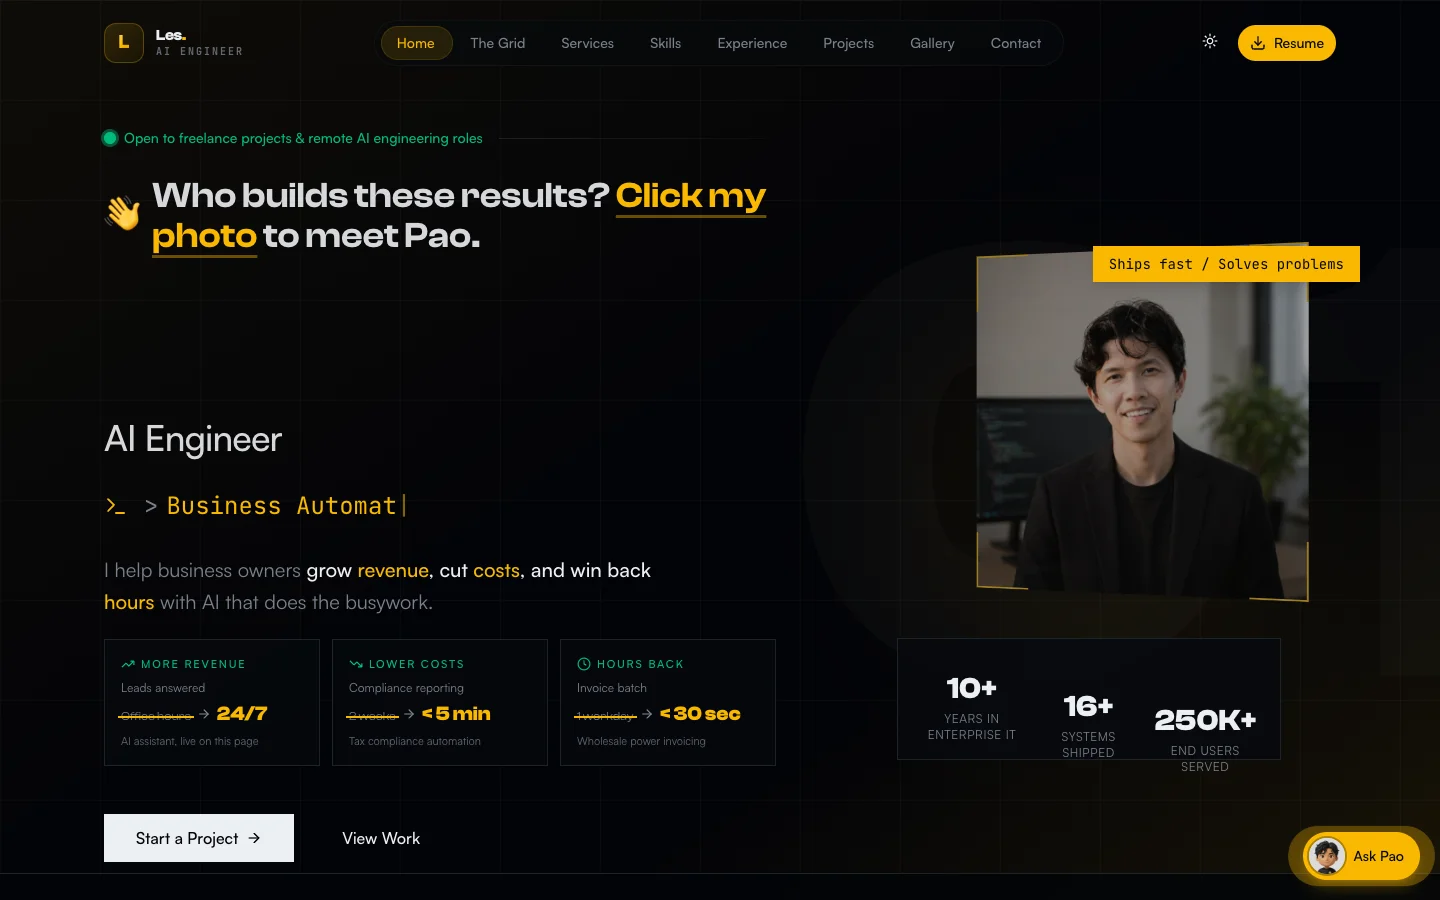
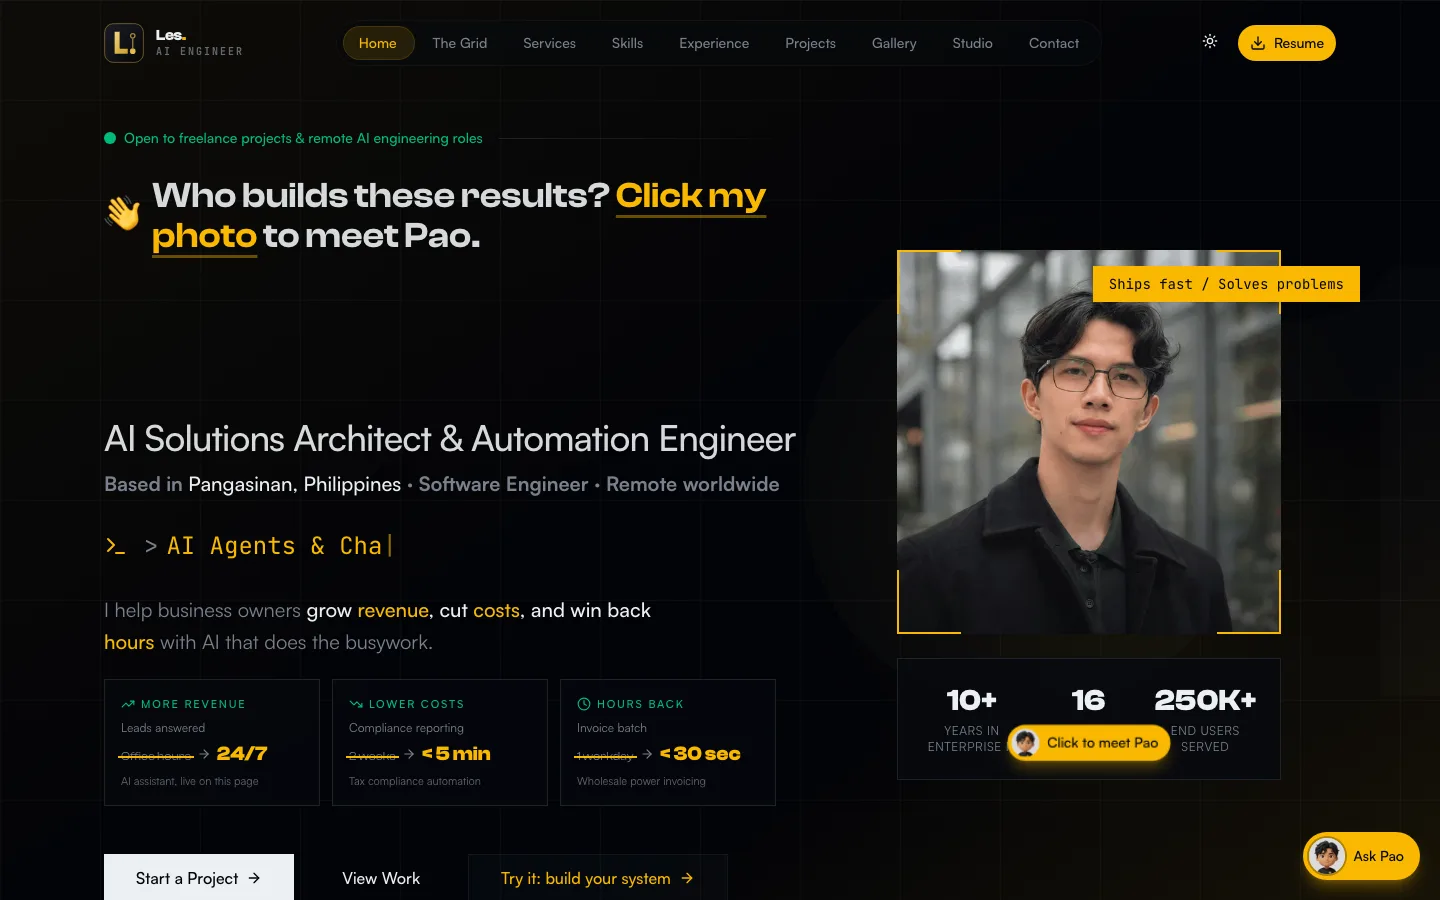
New portrait on site and README; fix broken README widgets and links
- Replace profile photo (renamed to les-john-paul-oliver.jpg so image caches refresh)
- README: drop dead stats widgets (503/402), swap unpublished e-invoicing card
  for event registration, correct case-study count to 21, refresh hero
  screenshot, add quick nav and How I work

diff --git a/src/app/layout.tsx b/src/app/layout.tsx
@@ -132,7 +132,7 @@ const jsonLd = {
       name: siteName,
       alternateName: ["Les Oliver", "LJP Oliver", "lesjohnpaul"],
       url: siteUrl,
-      image: `${siteUrl}/images/lesjohnpaul.jpg`,
+      image: `${siteUrl}/images/les-john-paul-oliver.jpg`,
       email: "mailto:lesjohnpauloliver@gmail.com",
       jobTitle: "AI Engineer",
       description: siteDescription,
@@ -222,7 +222,7 @@ const jsonLd = {
       "@id": `${siteUrl}/#service`,
       name: `${siteName}, AI Engineer in the Philippines`,
       url: siteUrl,
-      image: `${siteUrl}/images/lesjohnpaul.jpg`,
+      image: `${siteUrl}/images/les-john-paul-oliver.jpg`,
       description: siteDescription,
       email: "lesjohnpauloliver@gmail.com",
       areaServed: [{ "@type": "Country", name: "Philippines" }, "Worldwide"],

diff --git a/src/components/sections/hero-section.tsx b/src/components/sections/hero-section.tsx
@@ -359,7 +359,7 @@ export function HeroSection() {
                   {/* Image */}
                   <div className="relative w-full h-full">
                     <Image
-                      src="/images/lesjohnpaul.jpg"
+                      src="/images/les-john-paul-oliver.jpg"
                       alt="Les John Paul Oliver, AI Engineer"
                       fill
                       className="object-cover object-center transition-transform duration-700 ease-out group-hover/image:scale-105"

diff --git a/src/data/portfolio-data.ts b/src/data/portfolio-data.ts
@@ -805,7 +805,7 @@ export const photoGallery = [
     caption: "Live performance, Nord Stage 4 88",
   },
   {
-    src: "/images/lesjohnpaul.jpg",
+    src: "/images/les-john-paul-oliver.jpg",
     alt: "Les John Paul Oliver",
     category: "work",
     caption: "Portrait",

diff --git a/README.md b/README.md
@@ -2,7 +2,7 @@
 
 <img src="https://capsule-render.vercel.app/api?type=waving&color=0:0b0b0f,55:3a2a06,100:F5B700&height=260&section=header&text=Les%20John%20Paul%20Oliver&fontSize=52&fontColor=ffffff&animation=fadeIn&fontAlignY=38&desc=AI%20Solutions%20Architect%20%26%20Automation%20Engineer%20%E2%80%A2%20Urdaneta%2C%20Pangasinan%2C%20Philippines&descAlignY=60&descSize=19" alt="Les John Paul Oliver, AI Solutions Architect & Automation Engineer"/>
 
-[![Typing SVG](https://readme-typing-svg.demolab.com?font=Fira+Code&weight=600&size=22&duration=3200&pause=900&color=F5B700&center=true&vCenter=true&width=820&height=60&lines=AI+agents+that+answer+leads+24%2F7;2-week+compliance+work+%E2%86%92+under+5+minutes;A+full+workday+of+invoicing+%E2%86%92+under+30+seconds;I+don't+train+LLMs.+I+ship+them+into+real+businesses.)](https://lesjohnpauloliver.dev)
+[![Typing SVG](https://readme-typing-svg.demolab.com?font=Fira+Code&weight=600&size=22&duration=3200&pause=900&color=F5B700&center=true&vCenter=true&width=820&height=60&lines=AI+agents+that+answer+leads+24%2F7;2-week+compliance+work+%E2%86%92+under+5+minutes;A+full+workday+of+invoicing+%E2%86%92+under+30+seconds;I+don%27t+train+LLMs.+I+ship+them+into+real+businesses.)](https://lesjohnpauloliver.dev)
 
 <a href="https://lesjohnpauloliver.dev"><img src="https://img.shields.io/badge/Portfolio-lesjohnpauloliver.dev-F5B700?style=for-the-badge&labelColor=0b0b0f" alt="Portfolio"/></a>
 <a href="https://lesjohnpauloliver.dev/#contact"><img src="https://img.shields.io/badge/Book_a_call-Cal.com-F5B700?style=for-the-badge&logo=googlecalendar&logoColor=F5B700&labelColor=0b0b0f" alt="Book a call"/></a>
@@ -17,6 +17,16 @@
 <a href="https://lesjohnpauloliver.dev"><img src="docs/readme/hero.webp" width="92%" alt="lesjohnpauloliver.dev hero: buyer outcomes, 3D Pao assistant, and live stats"/></a>
 
 <sub>↑ Live site. Click my photo there and <b>Pao</b>, my 3D AI assistant, pops out. Ask it anything about my work, or book a call with it.</sub>
+
+<br/><br/>
+
+<a href="#-what-i-do">What I do</a> ·
+<a href="#-featured-work">Featured work</a> ·
+<a href="#-meet-pao-the-ai-assistant-on-my-site">Meet Pao</a> ·
+<a href="#-how-i-work">How I work</a> ·
+<a href="#%EF%B8%8F-stack-i-ship-with">Stack</a> ·
+<a href="#-by-the-numbers">Numbers</a> ·
+<a href="#%EF%B8%8F-about-this-repo">This repo</a>
 
 </div>
 
@@ -61,7 +71,6 @@ I'm **Les John Paul Oliver**, an **AI Solutions Architect & Automation Engineer*
 
 > **Team of one.** Every project below was scoped, designed, built, and shipped by me alone.
 
-
 <sub>Every card opens a full case study: the problem, the architecture, and what changed. Screens use demo data, and sensitive details are blurred.</sub>
 
 <table>
@@ -101,15 +110,15 @@ I'm **Les John Paul Oliver**, an **AI Solutions Architect & Automation Engineer*
 <sub><code>Next.js</code> <code>Supabase</code> <code>Cloudflare Tunnel</code></sub>
 </td>
 <td width="50%" valign="top">
-<a href="https://lesjohnpauloliver.dev/work/consumer-e-invoicing-notification-platform"><img src="public/images/projects/e-invoicing/01-executive.webp" alt="E-invoicing executive view"/></a>
-<b>Consumer E-Invoicing & Notifications</b> <img src="https://img.shields.io/badge/live-22c55e?style=flat-square" alt="live"/><br/>
-<sub>Password-protected PDF statements by email and SMS, with automatic provider fallback. 183K+ recipients.</sub><br/>
-<sub><code>Node.js</code> <code>Amazon SES</code> <code>SQL Server</code></sub>
+<a href="https://lesjohnpauloliver.dev/work/distributed-event-registration-platform"><img src="public/images/projects/agam/01-command-center.jpg" alt="Event registration command center"/></a>
+<b>Distributed Event Registration</b> <img src="https://img.shields.io/badge/live-22c55e?style=flat-square" alt="live"/><br/>
+<sub>QR check-in for a general assembly: 13,000 attendees across 5 simultaneous venues, with real-time membership validation and an audit trail accepted as official documentation.</sub><br/>
+<sub><code>Next.js</code> <code>Supabase Realtime</code> <code>SQL Server</code></sub>
 </td>
 </tr>
 </table>
 
-<div align="center"><a href="https://lesjohnpauloliver.dev/#projects"><b>See all 23 projects →</b></a></div>
+<div align="center"><a href="https://lesjohnpauloliver.dev/#projects"><b>See all 21 case studies →</b></a></div>
 
 <br/>
 
@@ -131,6 +140,16 @@ flowchart LR
 ```
 
 <sub><b>Guardrails:</b> answers only from verified portfolio facts · ignores pasted code and prompt injection · history kept server-side in Redis · 40 messages/hour and 100/day per IP · 20 turns per conversation · atomic daily spend cap.</sub>
+
+<br/>
+
+## 🧭 How I work
+
+| | Step | What happens |
+|:-:|---|---|
+| **01** | **Map the problem** | A 30-minute call to find the workflow that costs you the most time or money. |
+| **02** | **Prototype fast** | A working version early, so you see results before committing to the full build. |
+| **03** | **Ship & hand over** | Production deployment, documentation, and support options once it's live. |
 
 <br/>
 
@@ -163,7 +182,7 @@ flowchart LR
 </tr>
 <tr>
 <td align="center"><h3>1.17 TB</h3><sub>SQL Server data<br/>run as DBA</sub></td>
-<td align="center"><h3>183K+</h3><sub>e-invoice<br/>recipients</sub></td>
+<td align="center"><h3>21</h3><sub>case studies<br/>published</sub></td>
 <td align="center"><h3>300</h3><sub>staff on the ITSM<br/>platform, 12 offices</sub></td>
 <td align="center"><h3>10 yrs</h3><sub>in production,<br/>promoted 3×</sub></td>
 </tr>
@@ -181,7 +200,7 @@ This repo is my GitHub profile **and** the source of [lesjohnpauloliver.dev](htt
 | App | Next.js 16 (App Router, Turbopack), React 19, Tailwind 4 |
 | Motion | GSAP scroll reveals and CSS-only "AI ops" scenes that play only while on screen and respect reduced motion |
 | 3D Pao | Procedural Three.js model (8.7K triangles, ~11 KB gzip) on React Three Fiber, loaded only when you meet it |
-| Case studies | 23 statically generated `/work/[slug]` pages with CreativeWork JSON-LD and a sitemap |
+| Case studies | 21 statically generated `/work/[slug]` pages with CreativeWork JSON-LD and a sitemap |
 | Chat | Anthropic SDK with prompt caching, Upstash Redis, Vercel BotID, Cal.com v2, Resend, Telegram |
 | Hosting | Vercel (Fluid Compute) with Web Analytics and Speed Insights |
 
@@ -212,13 +231,6 @@ The site builds and renders without these. Only chat, booking, and email need th
 <br/>
 
 <div align="center">
-
-<a href="https://github.com/lesjohnpaul"><img height="165" src="https://github-readme-stats.vercel.app/api?username=lesjohnpaul&show_icons=true&hide_border=true&bg_color=0b0b0f&title_color=F5B700&icon_color=F5B700&text_color=e5e5e5&count_private=true&include_all_commits=true" alt="GitHub stats"/></a>
-<a href="https://github.com/lesjohnpaul"><img height="165" src="https://github-readme-stats.vercel.app/api/top-langs/?username=lesjohnpaul&layout=compact&hide_border=true&bg_color=0b0b0f&title_color=F5B700&text_color=e5e5e5&langs_count=8" alt="Top languages"/></a>
-
-<a href="https://github.com/lesjohnpaul"><img width="92%" src="https://github-readme-activity-graph.vercel.app/graph?username=lesjohnpaul&bg_color=0b0b0f&color=F5B700&line=F5B700&point=ffffff&area=true&area_color=F5B700&hide_border=true&custom_title=Shipping%20cadence" alt="Contribution graph"/></a>
-
-<br/><br/>
 
 **Have a process that eats your team's week?** [Tell Pao about it](https://lesjohnpauloliver.dev) or [email me](mailto:lesjohnpauloliver@gmail.com).
 
